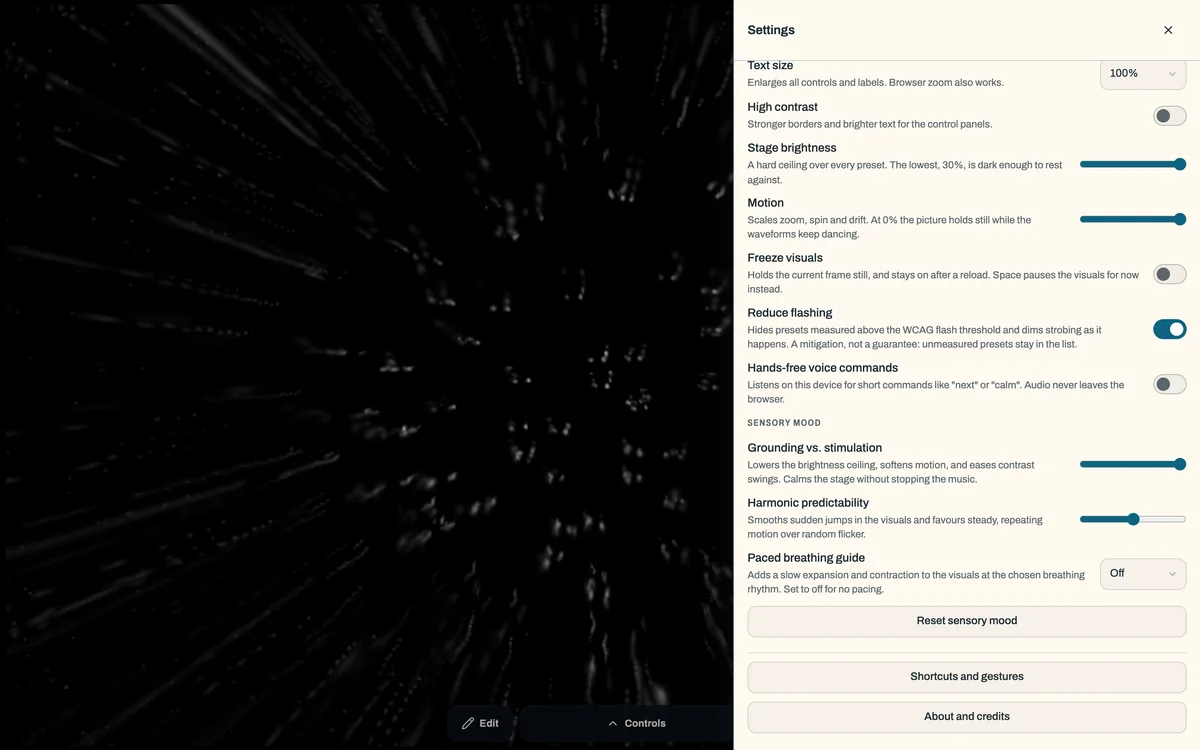
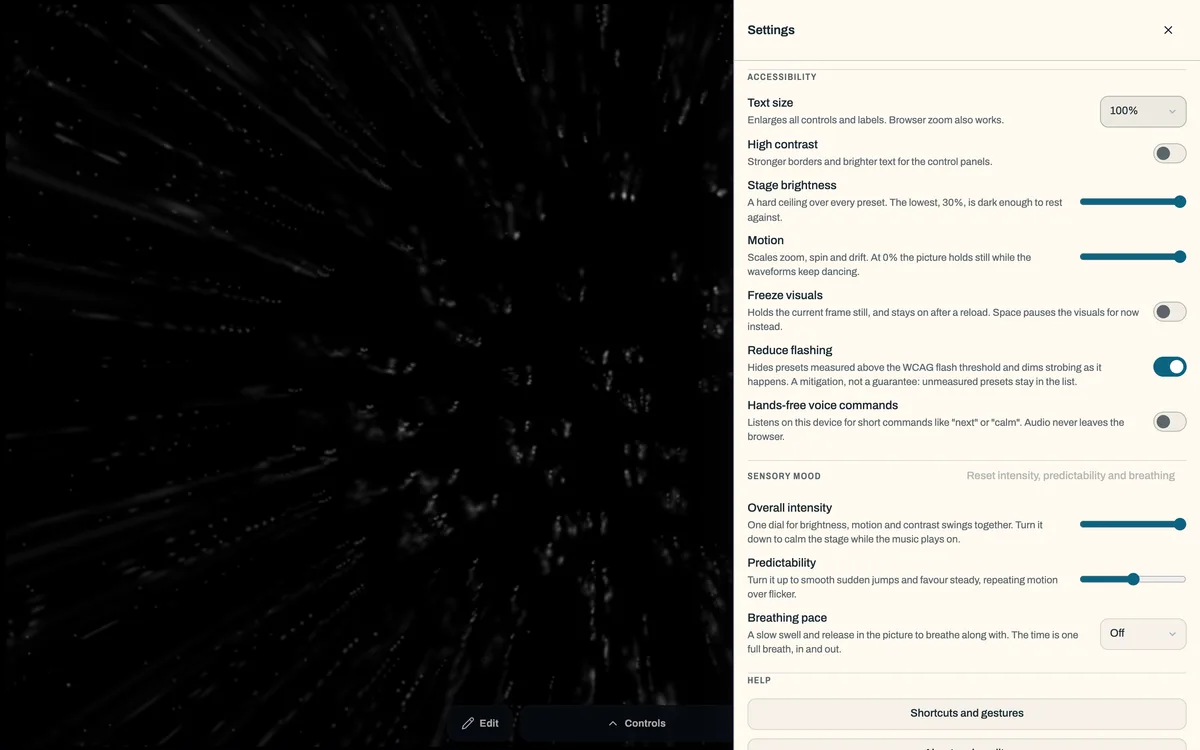
chore(whats-new): recapture the screenshots after the polish pass
The four shots now show the compass with its axis labels, the Sensory
mood section and the renamed dials.

The capture script takes WHATS_NEW_CAPTURE_PORT, scrolls without
Playwright's stability wait and uses a longer action timeout, so it
finishes on a busy machine instead of dying half-way.

diff --git a/scripts/capture-whats-new.ts b/scripts/capture-whats-new.ts
@@ -6,17 +6,22 @@
  * rather than scraping the DOM, so a screenshot shows the real surface a
  * visitor reaches. Output goes to public/screenshots/whats-new/.
  *
+ * The Browse shot needs the preset thumbnails in
+ * public/milkdrop-presets/previews/, which are gitignored: a fresh worktree
+ * has none, and its tiles would read "No preview".
+ *
  *   bun run capture:whats-new
+ *   WHATS_NEW_CAPTURE_PORT=5198 bun run capture:whats-new   # port 5199 taken
  */
 
 import fs from 'node:fs';
 import path from 'node:path';
-import { chromium, type Page } from 'playwright';
+import { chromium, type Locator, type Page } from 'playwright';
 import sharp from 'sharp';
 import { resolveAgentChromiumArgs } from './browser-launch.ts';
 import { spawnDevServer } from './dev-server.ts';
 
-const PORT = 5199;
+const PORT = Number(process.env.WHATS_NEW_CAPTURE_PORT ?? 5199);
 const OUT_DIR = 'public/screenshots/whats-new';
 const BASE = `http://127.0.0.1:${PORT}`;
 const VIEWPORT = { width: 1440, height: 900 };
@@ -33,6 +38,14 @@ async function run(page: Page, action: string) {
   await page.evaluate(async (id) => {
     await (window as any).__stims_agent.run(id);
   }, action);
+}
+
+/**
+ * Scrolls without Playwright's "element is stable" wait: that wait counts
+ * animation frames, and the visualizer can starve them on a busy machine.
+ */
+async function scrollTo(target: Locator) {
+  await target.evaluate((el) => el.scrollIntoView({ block: 'center' }));
 }
 
 async function shoot(page: Page, name: string, opts?: { fullPage?: boolean }) {
@@ -71,6 +84,9 @@ async function main() {
       deviceScaleFactor: 2,
     });
     const page = await context.newPage();
+    // Generous: a busy machine stretches every action, and a capture that
+    // dies half-way leaves the page showing a mix of old and new shots.
+    page.setDefaultTimeout(120_000);
     await page.goto(`${BASE}/?preset=shifter-curlique&agent=true`, {
       waitUntil: 'domcontentloaded',
     });
@@ -104,7 +120,7 @@ async function main() {
     await page.waitForTimeout(600);
     const sensory = page.locator('#sensory-overload-ceiling');
     if (await sensory.count()) {
-      await sensory.scrollIntoViewIfNeeded();
+      await scrollTo(sensory);
       await page.waitForTimeout(400);
       await shoot(page, 'sensory-dials.png');
     }
@@ -112,7 +128,7 @@ async function main() {
       exact: false,
     });
     if (await voice.count()) {
-      await voice.first().scrollIntoViewIfNeeded();
+      await scrollTo(voice.first());
       await page.waitForTimeout(400);
       await shoot(page, 'voice-commands.png');
     }
@@ -133,7 +149,7 @@ async function main() {
       await (window as any).__stims_agent.waitFor(
         (s: { presetId: string | null }) =>
           s.presetId === 'geiss-flower-blossom',
-        20_000,
+        120_000,
       );
     });
     await page.waitForTimeout(3500);
@@ -147,9 +163,7 @@ async function main() {
       'button[aria-label="Aesthetic compass"]',
     );
     try {
-      await compassButton
-        .first()
-        .waitFor({ state: 'visible', timeout: 20_000 });
+      await compassButton.first().waitFor({ state: 'visible' });
       await compassButton.first().click();
       await page.waitForTimeout(3500);
       await shoot(page, 'aesthetic-compass.png');
